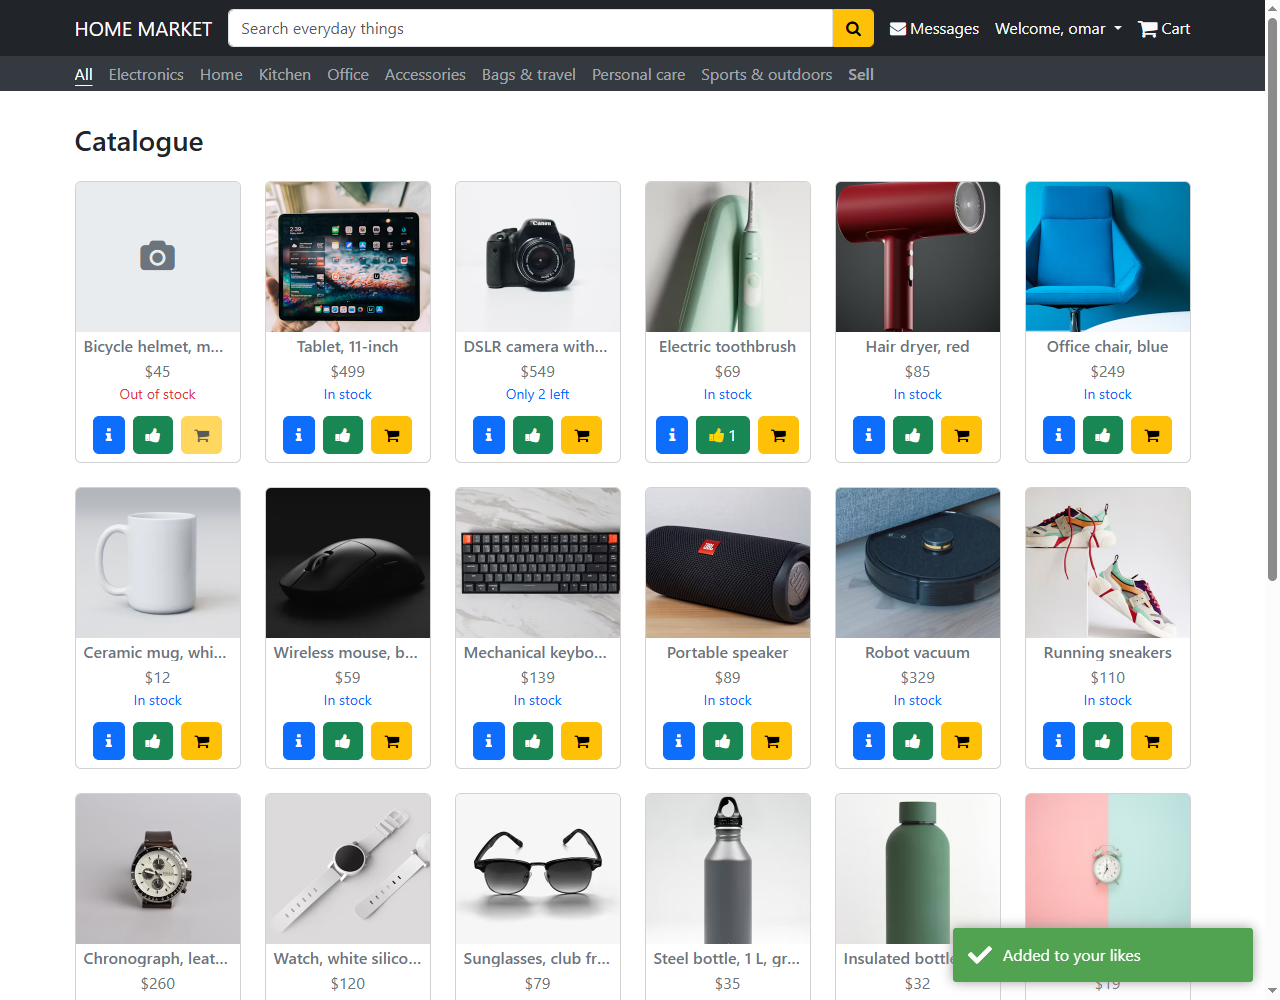
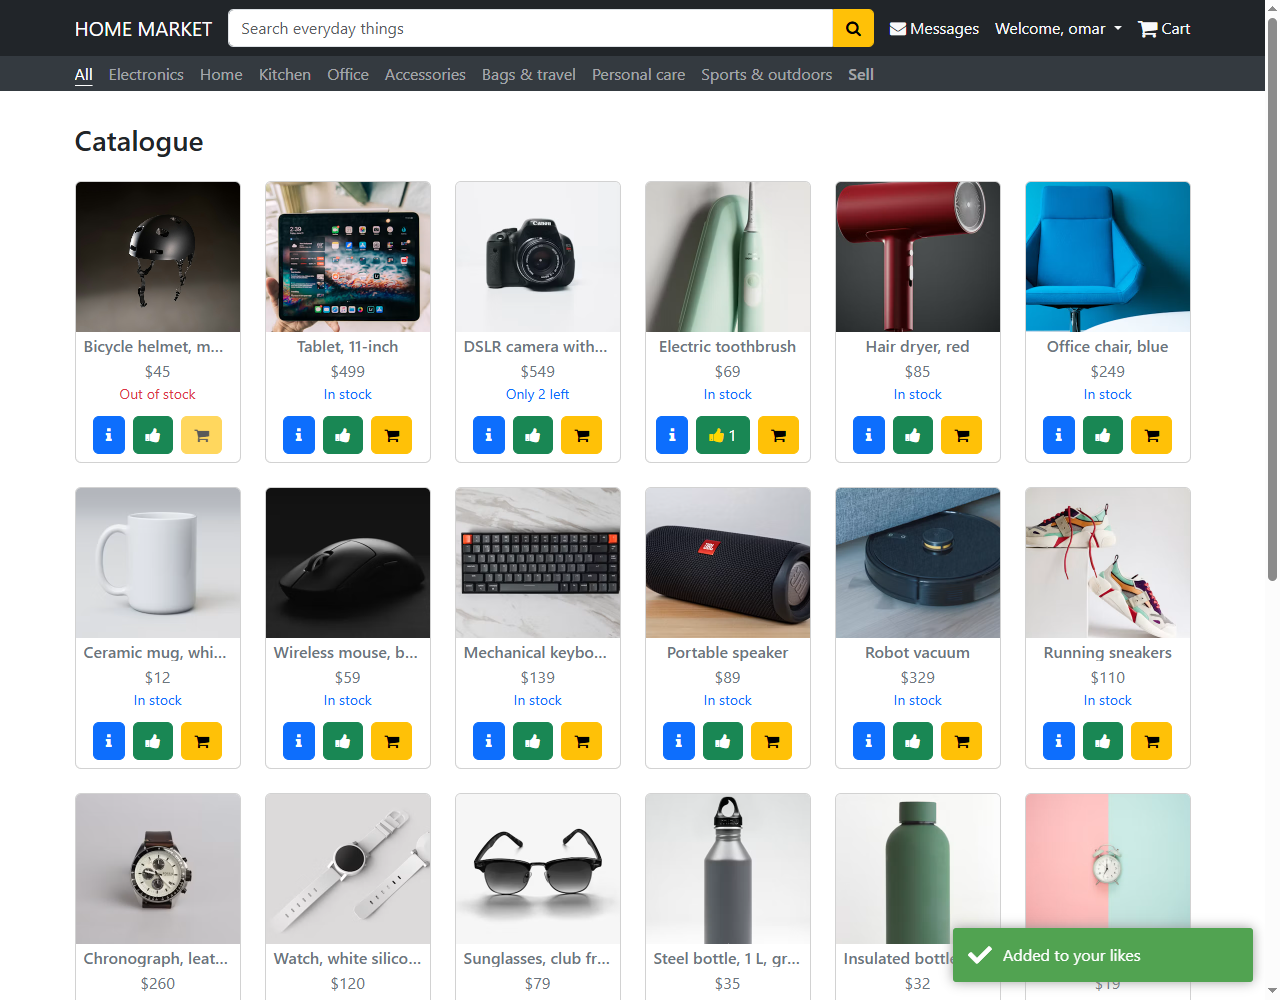
Screenshots taken as the right account: the product page as a visitor, the listings with their photos, the likes

Changed region(s): [[0.0625, 0.155, 0.1875, 0.341]]

diff --git a/README.md b/README.md
@@ -35,11 +35,11 @@ with Bootstrap, Font Awesome and ngx-toastr.
 
 ![The My sales page of nadia: one line, Bicycle helmet, matte black, order 1, quantity 2, $90.00, bought by omar, with the delivery address, and $90.00 before taxes at the top right](preview-sales.png)
 
-![The Sell a product form: Title, Price, a Category dropdown reading Kitchen, In stock, Brand, Maker and Description filled for a cast iron skillet, a green List it button, and a Photo card with a dashed drop zone](preview-sell.png)
+![The Sell a product form: Title, Price, a Category dropdown reading Kitchen, In stock, Brand, Maker and Description filled for a cast iron skillet, a green List it button, and on the right the Photo card showing the uploaded skillet photo above the dashed drop zone, with a toast reading Photo uploaded, save the product to keep it](preview-sell.png)
 
-![The page of the skillet nadia just listed: the buy box reads This is your listing, and under the description a green Edit and a red Remove button](preview-detail-mine.png)
+![The page of the skillet nadia just listed, with its photo: the buy box reads This is your listing, and under the description a green Edit and a red Remove button](preview-detail-mine.png)
 
-![The My products page: My listings with the helmet and the skillet, then Products I like](preview-my-products.png)
+![The My products page: My listings with the skillet and the helmet, each with its photo and an edit button, then Products I like with a bottle and a lamp](preview-my-products.png)
 
 ![The New message form as omar sees it after clicking the envelope on nadia's helmet: To reads nadia, Subject reads About Bicycle helmet, matte black, and a short note asking whether it is still available](preview-compose.png)
 
